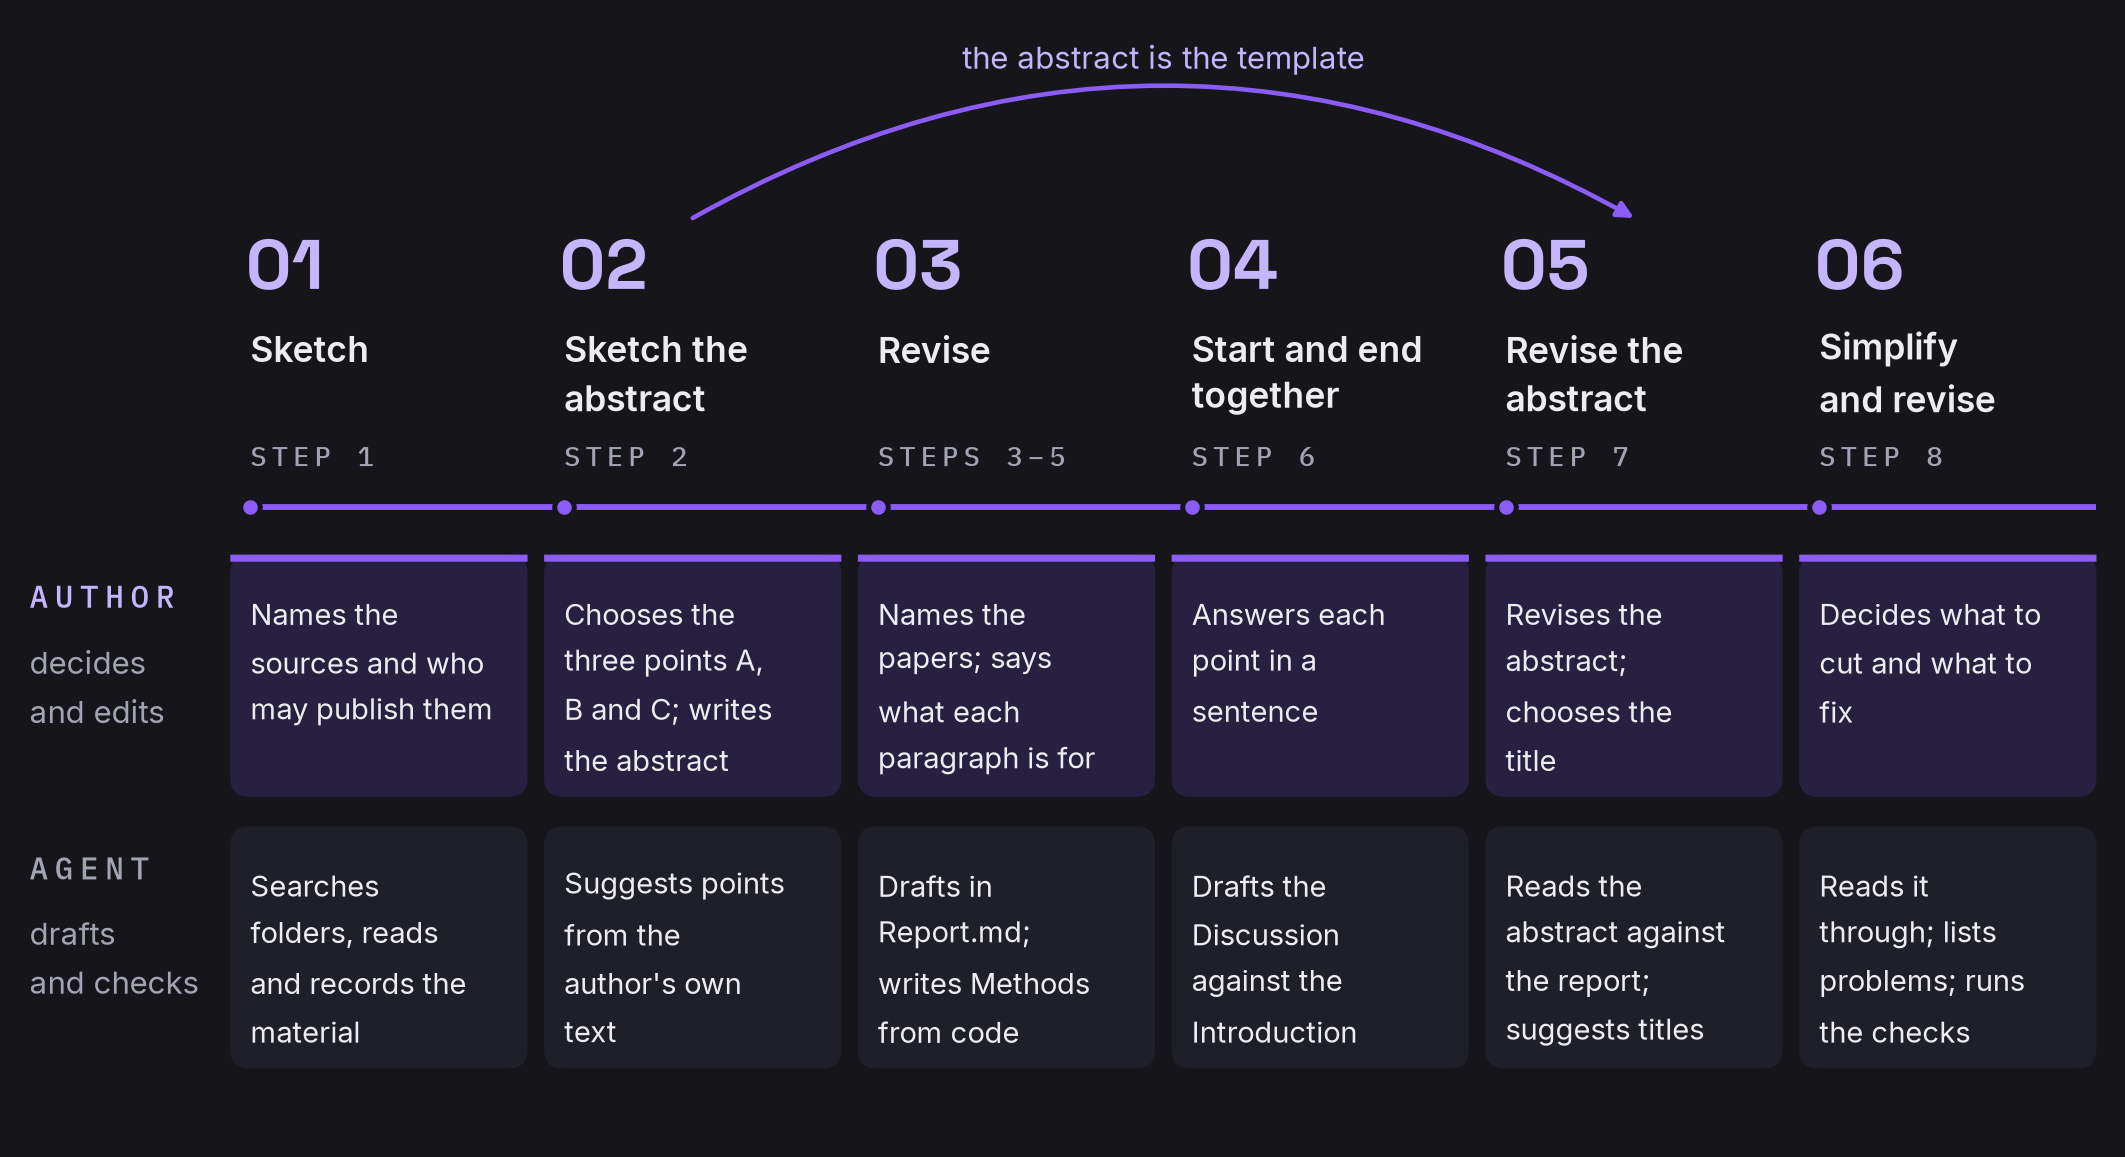
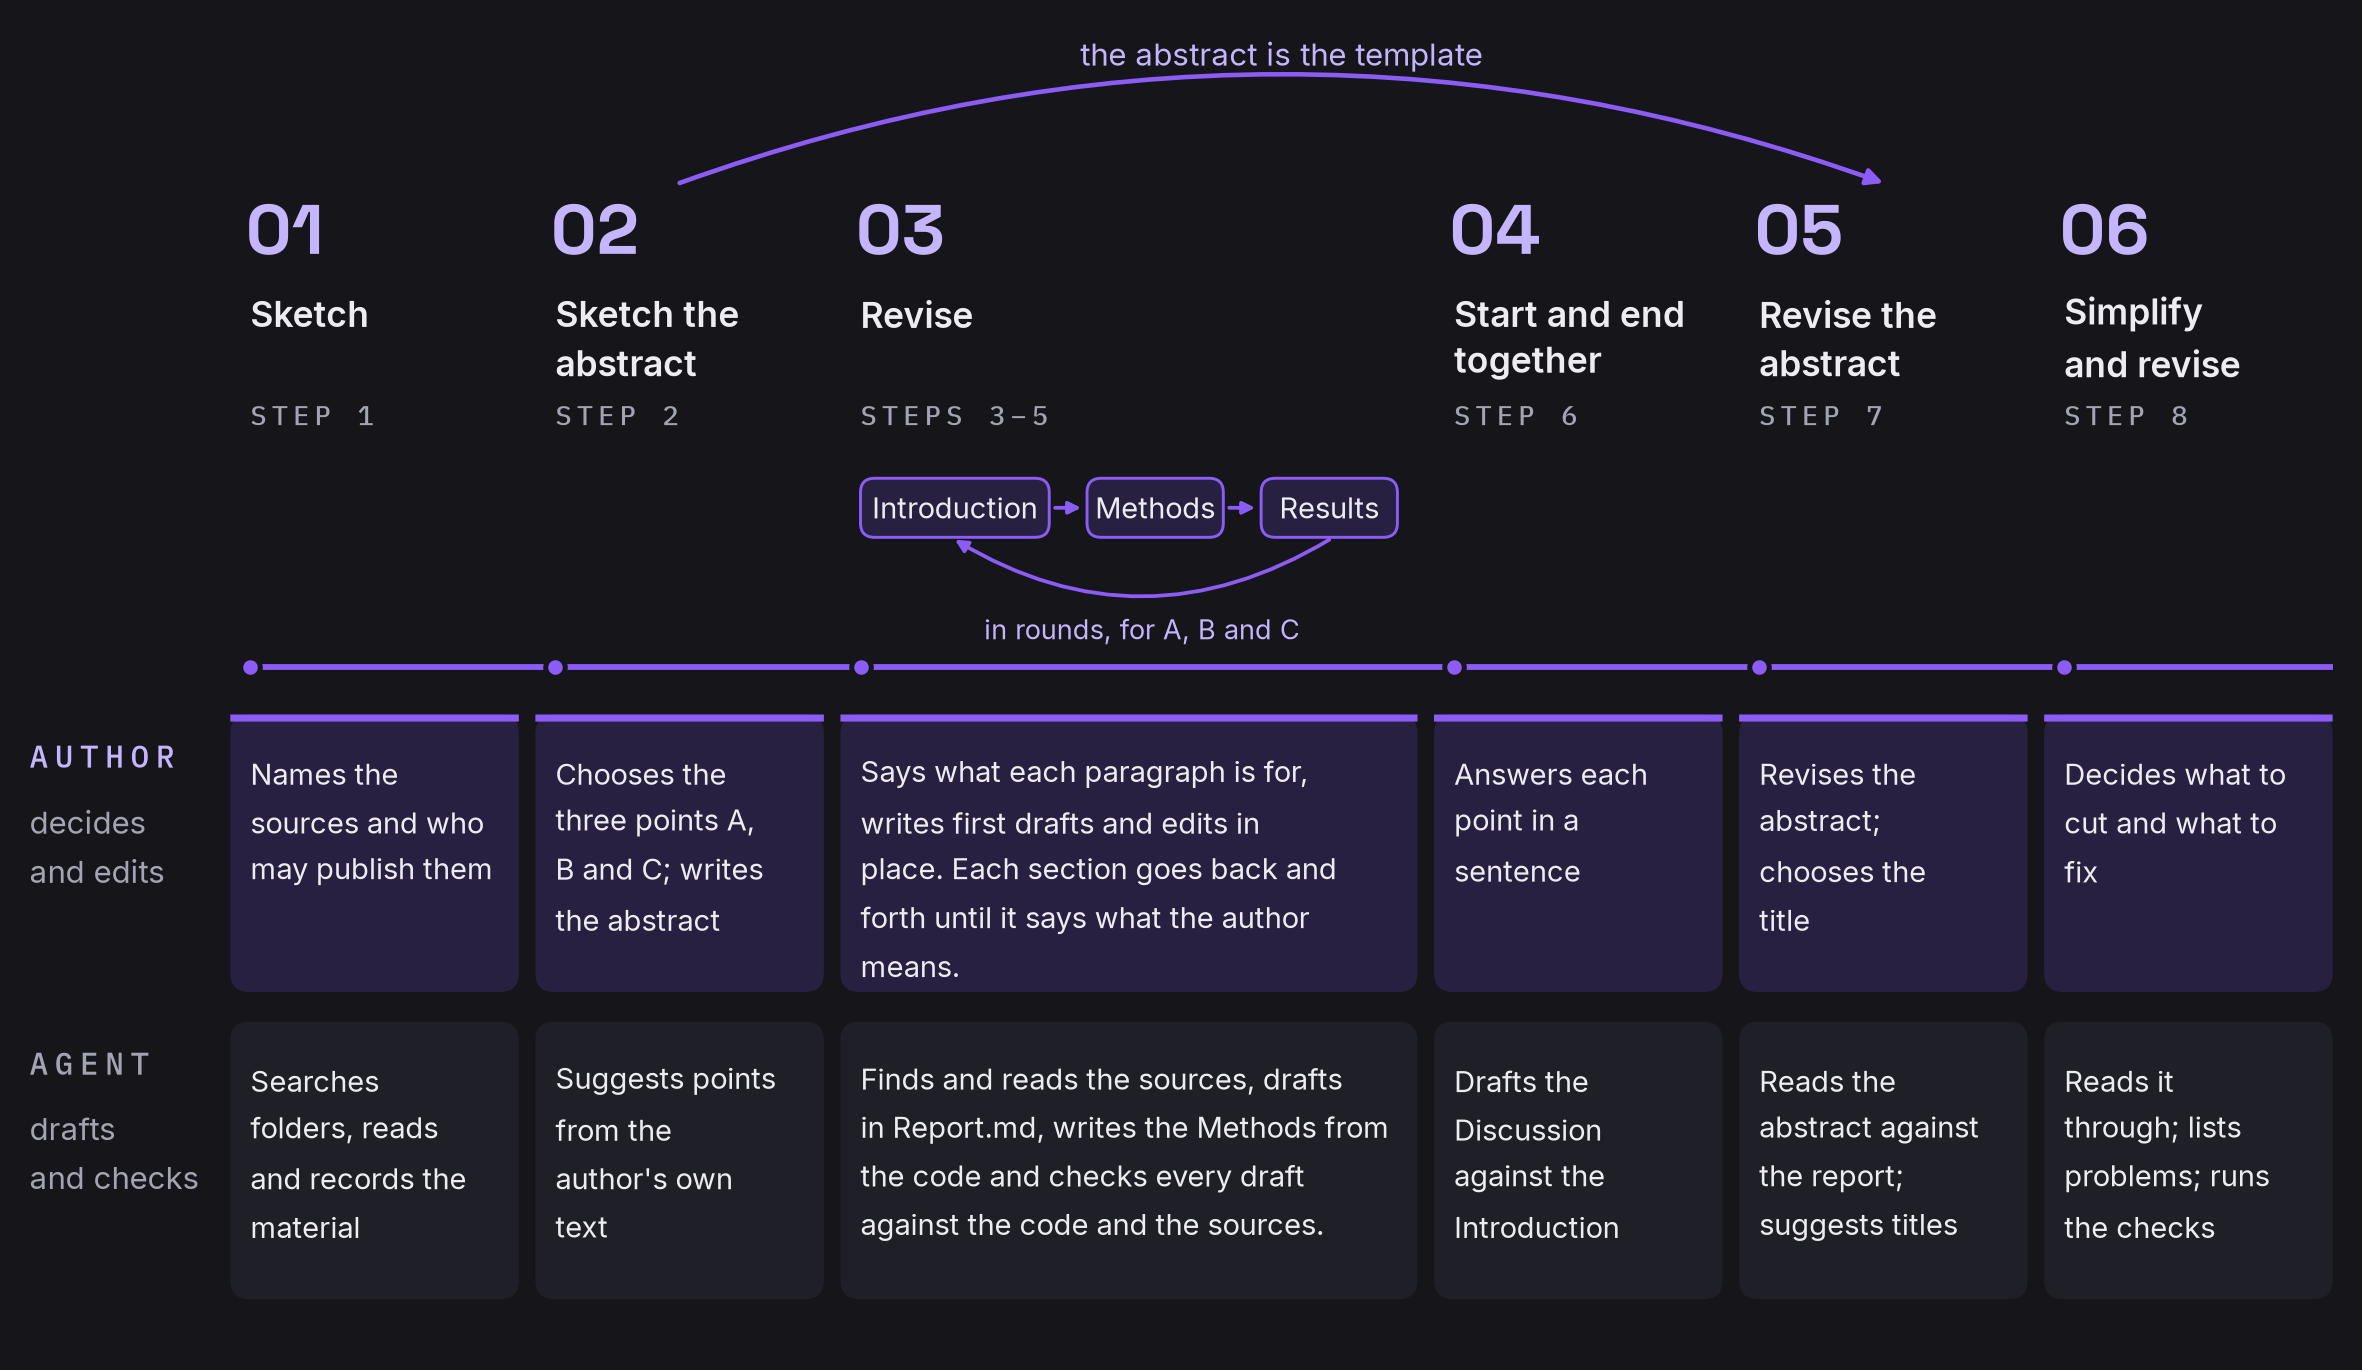
Paper 0001: writing-process figure with a wider revise phase drawn in rounds; David's edits

diff --git a/papers/0001-what-is-a-vivid-report/Code/fig_writing_process.py b/papers/0001-what-is-a-vivid-report/Code/fig_writing_process.py
@@ -1,7 +1,9 @@
 """Figure: the writing process — six phases, the steps in each, and what author and agent each do.
 
-Drawn from `instructions.md` (`The Six Phases and the Ten Steps`). Review (step 9) and
-publication (step 10) are left out: the report describes them separately.
+Drawn from `instructions.md` (`The Six Phases and the Ten Steps`) and David's sketch of the drafting
+order (`Writing workflow` keynote). The revise phase is drawn wider: in it the Introduction, Methods
+and Results are drafted and redrafted, in rounds, for each of the points A, B and C. Review (step 9)
+and publication (step 10) are left out: the report describes them separately.
 
     cd Code && uv run python ../papers/0001-what-is-a-vivid-report/Code/fig_writing_process.py
 """
@@ -15,67 +17,91 @@ import viz_style as vs  # noqa: E402
 
 vs.for_paper(__file__)
 
-# (phase, steps, what the author does, what the agent does) — each from instructions.md
+# (phase, steps, relative width, what the author does, what the agent does) — from instructions.md
 PHASES = [
-    ("Sketch", "1",
-     "Names the sources\nand who may\npublish them",
-     "Searches folders,\nreads and records\nthe material"),
-    ("Sketch the\nabstract", "2",
-     "Chooses the three\npoints A, B and C;\nwrites the abstract",
-     "Suggests points\nfrom the author's\nown text"),
-    ("Revise", "3–5",
-     "Names the papers;\nsays what each\nparagraph is for",
-     "Drafts in\nReport.md; writes\nMethods from code"),
-    ("Start and end\ntogether", "6",
-     "Answers each\npoint in a\nsentence",
-     "Drafts the\nDiscussion against\nthe Introduction"),
-    ("Revise the\nabstract", "7",
-     "Revises the\nabstract; chooses\nthe title",
-     "Reads the abstract\nagainst the report;\nsuggests titles"),
-    ("Simplify\nand revise", "8",
-     "Decides what\nto cut and\nwhat to fix",
-     "Reads it through;\nlists problems;\nruns the checks"),
+    ("Sketch", "1", 1,
+     "Names the sources and who may publish them",
+     "Searches folders, reads and records the material"),
+    ("Sketch the\nabstract", "2", 1,
+     "Chooses the three points A, B and C; writes the abstract",
+     "Suggests points from the author's own text"),
+    ("Revise", "3–5", 2.0,
+     "Says what each paragraph is for, writes first drafts and edits in place. "
+     "Each section goes back and forth until it says what the author means.",
+     "Finds and reads the sources, drafts in Report.md, writes the Methods from the code "
+     "and checks every draft against the code and the sources."),
+    ("Start and end\ntogether", "6", 1,
+     "Answers each point in a sentence",
+     "Drafts the Discussion against the Introduction"),
+    ("Revise the\nabstract", "7", 1,
+     "Revises the abstract; chooses the title",
+     "Reads the abstract against the report; suggests titles"),
+    ("Simplify\nand revise", "8", 1,
+     "Decides what to cut and what to fix",
+     "Reads it through; lists problems; runs the checks"),
 ]
+SECTIONS = ["Introduction", "Methods", "Results"]   # drafted in the revise phase, in this order
 
-W, H = 18, 9.8
+W, H = 20, 11.6
 GUTTER, RIGHT, GAP = 1.95, 0.25, 0.14
-COL = (W - GUTTER - RIGHT - GAP * (len(PHASES) - 1)) / len(PHASES)
+UNIT = (W - GUTTER - RIGHT - GAP * (len(PHASES) - 1)) / sum(p[2] for p in PHASES)
 PAD = 0.17
-WRAP = 16   # characters per line in a card
-LANES = {"author": (3.05, 2.05), "agent": (0.75, 2.05)}   # bottom, height
-RULE_Y = 5.5
+CHARS_PER_CM = 7.8          # Inter at 7 pt
+LANES = {"author": (3.2, 2.35), "agent": (0.6, 2.35)}   # bottom, height
+RULE_Y = 5.95
+NUM_Y, NAME_Y, STEP_Y = 9.45, 9.15, 8.0
 
 for t in vs.themes():
     fig, ax = vs.diagram(W, H)
-    xs = [GUTTER + i * (COL + GAP) for i in range(len(PHASES))]
+    xs, ws, x = [], [], GUTTER
+    for p in PHASES:
+        xs.append(x); ws.append(p[2] * UNIT); x += p[2] * UNIT + GAP
 
-    # lane labels in the gutter
     for lane, (word, verb) in {"author": ("Author", "decides\nand edits"),
                                "agent": ("Agent", "drafts\nand checks")}.items():
         y0, h = LANES[lane]
         vs.eyebrow(ax, 0.25, y0 + h - 0.45, word, colour_name="accent_text" if lane == "author" else "muted")
         ax.text(0.25, y0 + h - 0.7, verb, fontsize=7.5, color=t.muted, va="top", linespacing=1.3)
 
-    # the timeline: a violet rule with a node at each phase
-    ax.plot([xs[0] + PAD, xs[-1] + COL], [RULE_Y, RULE_Y], color=t.accent, lw=1.4, solid_capstyle="butt", zorder=2)
-    for i, (phase, steps, author, agent) in enumerate(PHASES):
-        x = xs[i]
+    ax.plot([xs[0] + PAD, xs[-1] + ws[-1]], [RULE_Y, RULE_Y], color=t.accent, lw=1.4, solid_capstyle="butt", zorder=2)
+    for i, (phase, steps, _, author, agent) in enumerate(PHASES):
+        x, w = xs[i], ws[i]
         ax.scatter([x + PAD], [RULE_Y], s=22, color=t.accent, zorder=3, edgecolors=t.surface, linewidths=1.2)
-        vs.display(ax, x + PAD - 0.04, 7.35, f"{i + 1:02d}", size=17, colour_name="accent_text", va="baseline")
-        ax.text(x + PAD, 7.05, phase, fontsize=8.5, fontweight="semibold", color=t.ink, va="top", linespacing=1.15)
-        vs.eyebrow(ax, x + PAD, 5.85, f"Step{'s' if '–' in steps else ''} {steps}", colour_name="muted", size=6.5)
+        vs.display(ax, x + PAD - 0.04, NUM_Y, f"{i + 1:02d}", size=17, colour_name="accent_text", va="baseline")
+        ax.text(x + PAD, NAME_Y, phase, fontsize=8.5, fontweight="semibold", color=t.ink, va="top", linespacing=1.15)
+        vs.eyebrow(ax, x + PAD, STEP_Y, f"Step{'s' if '–' in steps else ''} {steps}", colour_name="muted", size=6.5)
 
+        wrap = int((w - 2 * PAD) * (CHARS_PER_CM if w < 3 else 8.2))
         for lane, text, fill in (("author", author, "wash"), ("agent", agent, "panel")):
             y0, h = LANES[lane]
-            vs.card(ax, x, y0, COL, h, fill=fill, radius=0.16)
-            if lane == "author":   # a violet tick on the author's cards: the decisions are theirs
-                vs.card(ax, x, y0 + h - 0.06, COL, 0.06, fill="accent", radius=0.0, zorder=2)
-            ax.text(x + PAD, y0 + h - 0.3, textwrap.fill(text.replace("\n", " "), WRAP), fontsize=7, color=t.ink, va="top", linespacing=1.38, zorder=3)
+            vs.card(ax, x, y0, w, h, fill=fill, radius=0.16)
+            if lane == "author":   # a violet edge on the author's cards: the decisions are theirs
+                vs.card(ax, x, y0 + h - 0.06, w, 0.06, fill="accent", radius=0.0, zorder=2)
+            ax.text(x + PAD, y0 + h - 0.3, textwrap.fill(text, wrap), fontsize=7, color=t.ink,
+                    va="top", linespacing=1.38, zorder=3)
+
+    # inside the revise phase: Introduction -> Methods -> Results, and round again, for A, B and C
+    i = 2
+    x, w = xs[i] + PAD, ws[i] - 2 * PAD
+    cgap, cy, ch = 0.32, 7.05, 0.5
+    shares = [len(n) + 6 for n in SECTIONS]                     # wider box for a longer name
+    cws = [(w - 2 * cgap) * sh / sum(shares) for sh in shares]
+    cxs = [x + sum(cws[:k]) + k * cgap for k in range(3)]
+    for k, name in enumerate(SECTIONS):
+        cx, cw = cxs[k], cws[k]
+        vs.card(ax, cx, cy, cw, ch, fill="wash", edge="accent", radius=0.12, lw=0.7, zorder=2)
+        ax.text(cx + cw / 2, cy + ch / 2, name, ha="center", va="center", fontsize=7, color=t.ink, zorder=3)
+        if k:
+            vs.arrow(ax, (cx - cgap + 0.05, cy + ch / 2), (cx - 0.05, cy + ch / 2), lw=0.9, head=6)
+    first, last = cxs[0] + cws[0] / 2, cxs[2] + cws[2] / 2
+    vs.arrow(ax, (last, cy - 0.02), (first, cy - 0.02), rad=-0.3, lw=0.9, head=6)
+    ax.text((first + last) / 2, cy - 0.78, "in rounds, for A, B and C", ha="center", va="center",
+            fontsize=6.5, style="italic", color=t.accent_text, zorder=3)
 
     # the abstract, drafted in phase 2, is the template that phase 5 revises it against
-    c2, c5 = xs[1] + COL / 2, xs[4] + COL / 2
-    vs.arrow(ax, (c2, 7.95), (c5, 7.95), rad=-0.28, lw=1.1)
-    ax.text((c2 + c5) / 2, 9.15, "the abstract is the template", ha="center", va="bottom",
+    c2, c5 = xs[1] + ws[1] / 2, xs[4] + ws[4] / 2
+    vs.arrow(ax, (c2, NUM_Y + 0.6), (c5, NUM_Y + 0.6), rad=-0.18, lw=1.1)
+    ax.text((c2 + c5) / 2, H - 0.3, "the abstract is the template", ha="center", va="top",
             fontsize=7.5, style="italic", color=t.accent_text)
 
     vs.save(fig, "writing_process")

diff --git a/Report.md b/Report.md
@@ -52,7 +52,7 @@ Writing follows six phases: sketch the idea, draft the abstract, revise, write t
 
 ::: figure {#fig-writing src="Code/outputs/figures/writing_process.png" width=wide alt="A timeline of the six phases of writing a report, numbered 01 to 06 with their steps, above two rows of cards: what the author does in each phase and what the agent does"}
 ![[papers/0001-what-is-a-vivid-report/Code/outputs/figures/writing_process.png]]
-The six phases of writing a report, numbered from left to right, with the steps carried out in each. The upper row of cards says what the author does in each phase, the lower row what the agent does. The arrow joins the phase in which the abstract is drafted to the phase in which it is revised against the finished report. Review and publication come after step 8 and are not shown.
+The six phases of writing a report, numbered from left to right, with the steps carried out in each. The upper row of cards says what the author does in each phase, the lower row what the agent does. The third phase is drawn wider: in it the Introduction, Methods and Results are drafted in turn and then redrafted, in rounds, for each of the three points A, B and C. The arrow joins the phase in which the abstract is drafted to the phase in which it is revised against the finished report. Review and publication come after step 8 and are not shown.
 :::
 
 The agent is instructed to keep the author's judgement at the centre. The author decides what the report says, and is asked to go first: to name the point of a paragraph before it is drafted, the papers they know before a search, and what they expected before a result is written up. The agent writes its drafts directly into the report, where the author edits them, and reads the author's edits before its next change. It works one step at a time and stops, so that each step can be read before the next begins.
